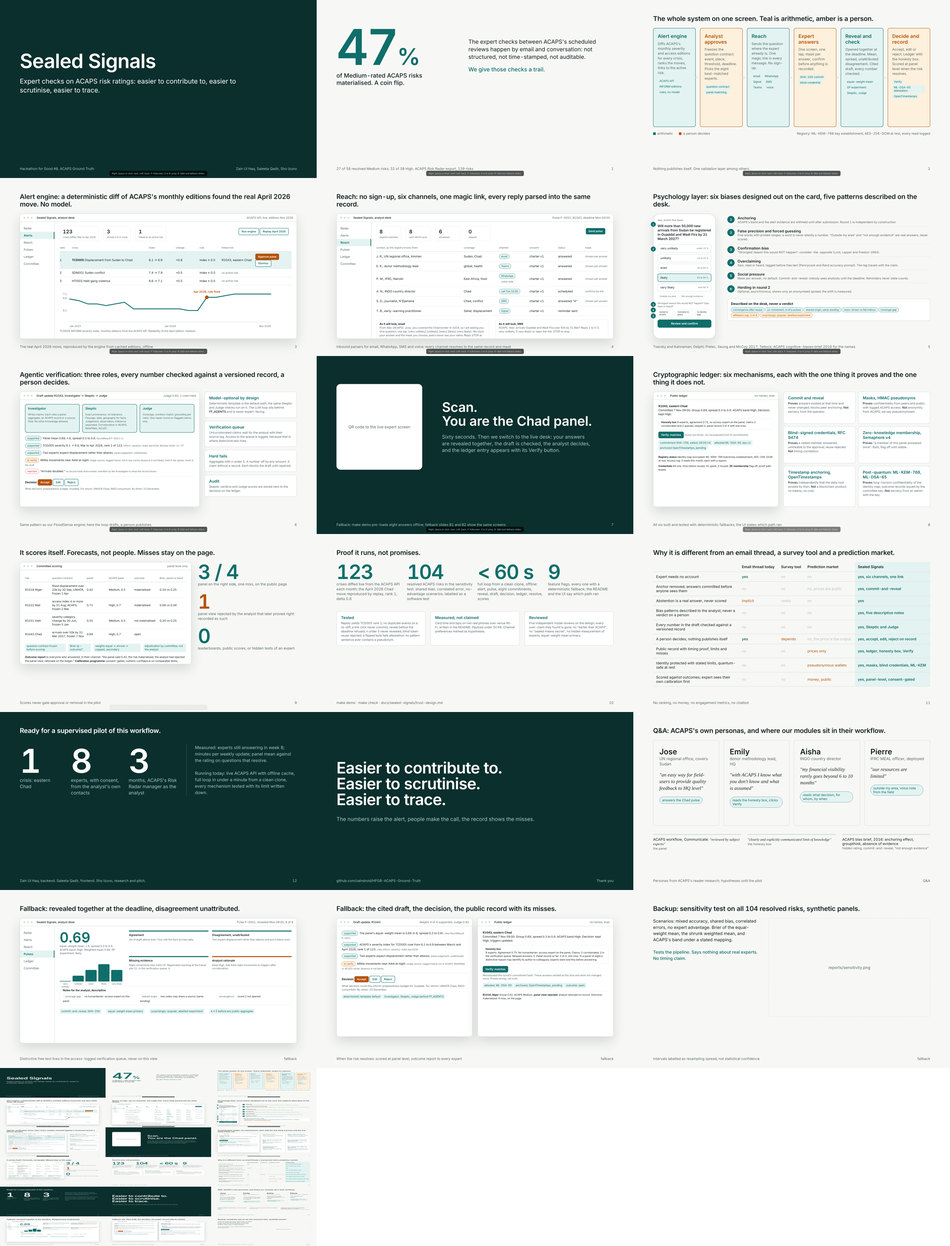
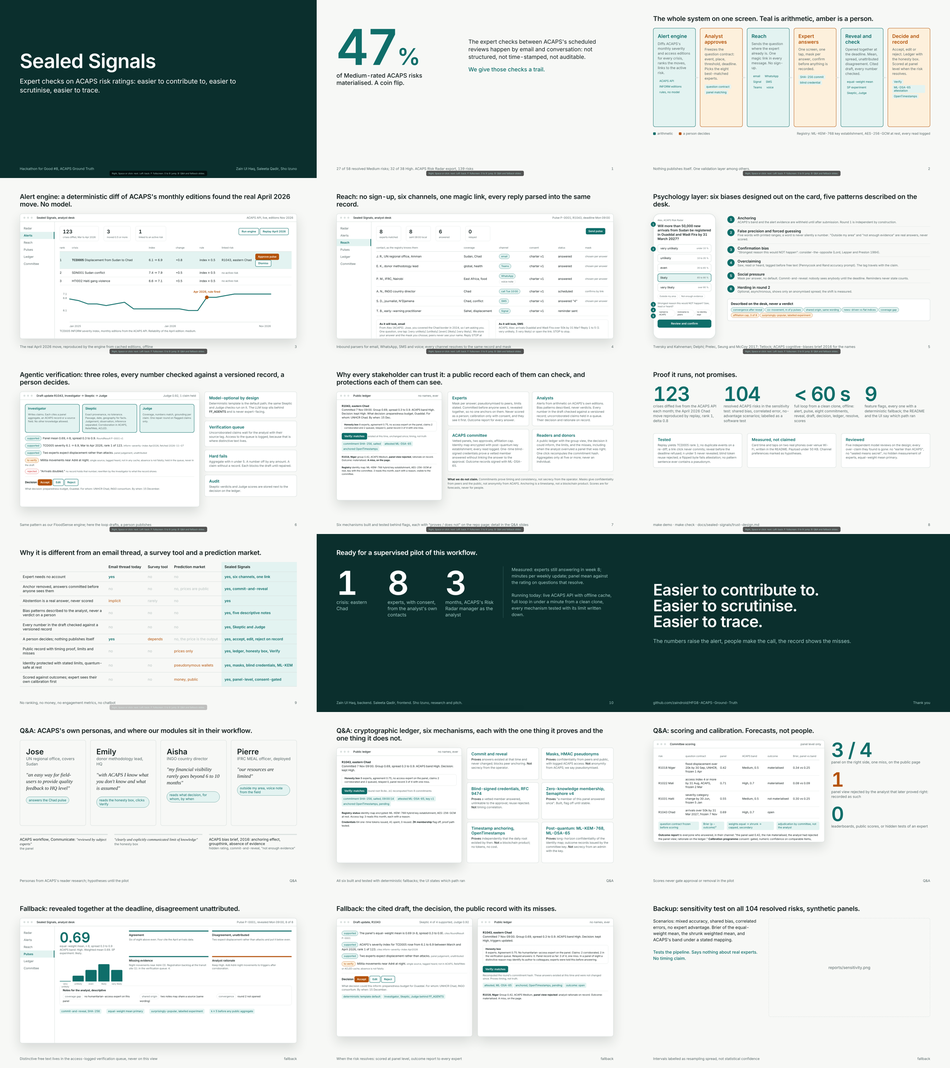
Pitch deck v7: demo slide removed (demo runs from the product), ledger, cryptography and scoring merged into one stakeholder trust slide; detail slides kept for Q&A

diff --git a/pitch/sealed-signals-slides.html b/pitch/sealed-signals-slides.html
@@ -236,16 +236,92 @@ h1{font-size:120px;font-weight:600;line-height:1;letter-spacing:-2px}
  </div>
  <div class="foot"><span>Same pattern as our FloodSense engine; here the loop drafts, a person publishes</span><span>6</span></div>
 </section>
-<section class="slide dark" id="s7">
- <div style="display:flex;align-items:center;gap:120px;margin-top:80px">
-  <div data-s="0" style="width:520px;height:520px;background:#fff;border-radius:24px;display:flex;align-items:center;justify-content:center;text-align:center;padding:50px;color:var(--muted);font-size:24px">QR code to the live expert screen</div>
-  <div><div class="line" data-s="0" style="font-size:80px;color:#fff;line-height:1.05">Scan.<br>You are the Chad panel.</div><p class="sub" data-s="1" style="font-size:30px;max-width:900px">Sixty seconds. Then we switch to the live desk: your answers are revealed together, the draft is checked, the analyst decides, and the ledger entry appears with its Verify button.</p></div>
+<section class="slide" id="s7">
+ <div class="line" data-s="0">Why every stakeholder can trust it: a public record each of them can check, and protections each of them can see.</div>
+ <div style="display:flex;gap:34px;align-items:flex-start">
+  <div class="win" data-s="1" style="width:640px;height:660px;flex:none">
+   <div class="bar"><i></i><i></i><i></i><b>Public ledger</b><span style="margin-left:auto">no names, ever</span></div>
+   <div class="main" style="font-size:16px;line-height:1.45">
+    <b>R1043, eastern Chad</b><br>Committed 7 Nov 09:00. Group 0.69, spread 0.3 to 0.9. ACAPS band High. Decision: kept High. What decision: preparedness budget, Ouaddaï. For whom: UNHCR Chad. By when: 15 Dec.
+    <div style="border:1.5px solid var(--line);border-radius:10px;padding:10px 14px;margin:10px 0;font-size:14px;line-height:1.45"><b>Honesty box</b> 8 experts, agreement 0.75, no access expert on the panel, claims 2 corroborated and 2 queued, relayed 0, panel record 3 of 4 with one miss.</div>
+    <span class="btn">Verify: matches</span> <span class="sub" style="font-size:14px">existed at this time, unchanged since; timing, not truth</span>
+    <div style="margin-top:10px;font-size:13px"><span class="tech">commitment SHA-256, salted</span> <span class="tech">attested ML-DSA-65</span> <span class="tech">anchored OpenTimestamps</span></div>
+    <div style="margin-top:12px;border-top:1.5px solid var(--line);padding-top:10px;font-size:14px"><b>R1018, Niger</b> group 0.42, ACAPS Medium, <b>panel view rejected</b>, rationale on record. Outcome: materialised. <b>A miss, on the page.</b></div>
+    <div style="margin-top:12px;border-top:1.5px solid var(--line);padding-top:10px;font-size:14px"><b>Registry</b> identity map: ML-KEM-768 hybrid key establishment, AES-256-GCM at rest, key with the committee. 3 reads this month, each with a reason, visible to the committee.</div>
+   </div>
+  </div>
+  <div style="flex:1;display:grid;grid-template-columns:1fr 1fr;gap:18px">
+   <div class="mech" data-s="2"><h3>Experts</h3><p>Mask per answer; pseudonymised to peers, limits stated. Committed before anyone sees it, revealed together, so no one anchors on them. Never scored as a person; calibration only with consent, and they see it first. Outcome report for every answer.</p></div>
+   <div class="mech" data-s="2"><h3>Analysts</h3><p>Alerts from arithmetic on ACAPS's own editions. Bias patterns described, never verdicts. Every number in the draft checked against a versioned record; uncorroborated claims held in a queue. Their decision and rationale on record.</p></div>
+   <div class="mech" data-s="3"><h3>ACAPS committee</h3><p>Vetted panels, two approvals, affiliation cap. Identity map encrypted with post-quantum key establishment; every read logged. One-time blind-signed credentials prove a vetted member answered without linking the answer to the approval. Outcome records signed with ML-DSA-65.</p></div>
+   <div class="mech" data-s="3"><h3>Readers and donors</h3><p>A public ledger with the group view, the decision it could inform, the limits, and the misses, including when the analyst overruled a panel that was right. One click recomputes the commitment hash. Aggregates only at five or more; never an individual.</p></div>
+   <div data-s="4" style="grid-column:1 / -1;border-top:2px solid var(--line);padding-top:14px;font-size:17px;color:var(--muted);line-height:1.5"><b style="color:var(--ink)">What we do not claim.</b> Commitments prove timing and consistency, not secrecy from the operator. Masks give confidentiality from peers and the public, not anonymity from ACAPS. Anchoring is a timestamp, not a blockchain product. Scores are for forecasts, never for people.</div>
+  </div>
  </div>
- <div class="foot"><span>Fallback: make demo pre-loads eight answers offline; fallback slides B1 and B2 show the same screens</span><span>7</span></div>
+ <div class="foot"><span>Six mechanisms built and tested behind flags, each with "proves / does not" on the repo page; detail in the Q&A slides</span><span>7</span></div>
 </section>
-<section class="slide dark" id="s7v" style="padding:0"><video id="demovid" src="sealed-signals-demo.mp4" muted playsinline preload="auto" style="position:absolute;left:0;top:0;width:1920px;height:1080px;background:#fff"></video></section>
 <section class="slide" id="s8">
- <div class="line" data-s="0">Cryptographic ledger: six mechanisms, each with the one thing it proves and the one thing it does not.</div>
+ <div class="line" data-s="0">Proof it runs, not promises.</div>
+ <div style="display:grid;grid-template-columns:repeat(4,1fr);gap:30px;margin-top:10px">
+  <div data-s="1"><div class="num">123</div><p class="sub" style="font-size:22px">crises diffed live from the ACAPS API each month; the April 2026 Chad move reproduced by replay, rank 1, delta 0.8</p></div>
+  <div data-s="1"><div class="num">104</div><p class="sub" style="font-size:22px">resolved ACAPS risks in the sensitivity test: shared bias, correlated error, no-advantage scenarios; labelled as a software test</p></div>
+  <div data-s="2"><div class="num">&lt; 60 s</div><p class="sub" style="font-size:22px">full loop from a clean clone, offline: alert, pulse, eight commitments, reveal, draft, decision, ledger, resolve, scores</p></div>
+  <div data-s="2"><div class="num">9</div><p class="sub" style="font-size:22px">feature flags, every one with a deterministic fallback; the README and the UI say which path ran</p></div>
+ </div>
+ <div style="display:grid;grid-template-columns:1fr 1fr 1fr;gap:30px;margin-top:60px" data-s="3">
+  <div class="mech"><h3>Tested</h3><p>Replay yields TCD005 rank 1; no duplicate events on a re-diff; a link click never commits; reveal before the deadline refused; n under 5 never revealed; blind token reuse rejected; a flipped byte fails attestation; no pattern sentence ever contains a pseudonym.</p></div>
+  <div class="mech"><h3>Measured, not claimed</h3><p>Card time and taps on two real phones over venue Wi-Fi, written in the README. Payload under 50 KB. Channel preferences marked as hypotheses.</p></div>
+  <div class="mech"><h3>Reviewed</h3><p>Five independent model reviews on the design; every over-claim they found is gone: no "earlier than ACAPS", no "sealed means secret", no hidden measurement of experts, equal-weight mean primary.</p></div>
+ </div>
+ <div class="foot"><span>make demo · make check · docs/sealed-signals/trust-design.md</span><span>8</span></div>
+</section>
+<section class="slide" id="s9">
+ <div class="line" data-s="0">Why it is different from an email thread, a survey tool and a prediction market.</div>
+ <table class="cmp" data-s="1">
+  <tr><th style="width:520px"></th><th>Email thread today</th><th>Survey tool</th><th>Prediction market</th><th class="us">Sealed Signals</th></tr>
+  <tr data-s="1"><td>Expert needs no account</td><td class="y">yes</td><td class="n">no</td><td class="n">no</td><td class="us y">yes, six channels, one link</td></tr>
+  <tr data-s="2"><td>Anchor removed, answers committed before anyone sees them</td><td class="n">no</td><td class="n">no</td><td class="n">no, prices are public</td><td class="us y">yes, commit-and-reveal</td></tr>
+  <tr data-s="2"><td>Abstention is a real answer, never scored</td><td class="p">implicit</td><td class="n">rarely</td><td class="n">no</td><td class="us y">yes</td></tr>
+  <tr data-s="3"><td>Bias patterns described to the analyst, never a verdict on a person</td><td class="n">no</td><td class="n">no</td><td class="n">no</td><td class="us y">yes, five descriptive notes</td></tr>
+  <tr data-s="3"><td>Every number in the draft checked against a versioned record</td><td class="n">no</td><td class="n">no</td><td class="n">no</td><td class="us y">yes, Skeptic and Judge</td></tr>
+  <tr data-s="4"><td>A person decides; nothing publishes itself</td><td class="y">yes</td><td class="p">depends</td><td class="n">no, the price is the output</td><td class="us y">yes, accept, edit, reject on record</td></tr>
+  <tr data-s="4"><td>Public record with timing proof, limits and misses</td><td class="n">no</td><td class="n">no</td><td class="p">prices only</td><td class="us y">yes, ledger, honesty box, Verify</td></tr>
+  <tr data-s="5"><td>Identity protected with stated limits, quantum-safe at rest</td><td class="n">no</td><td class="n">no</td><td class="p">pseudonymous wallets</td><td class="us y">yes, masks, blind credentials, ML-KEM</td></tr>
+  <tr data-s="5"><td>Scored against outcomes; expert sees their own calibration first</td><td class="n">no</td><td class="n">no</td><td class="p">money, public</td><td class="us y">yes, panel-level, consent-gated</td></tr>
+ </table>
+ <div class="foot"><span>No ranking, no money, no engagement metrics, no chatbot</span><span>9</span></div>
+</section>
+<section class="slide dark" id="s10">
+ <div class="line" data-s="0" style="color:#fff">Ready for a supervised pilot of this workflow.</div>
+ <div style="display:flex;gap:50px;margin-top:60px">
+  <div data-s="1" style="width:260px"><div style="font-size:200px;font-weight:600;line-height:1;letter-spacing:-6px">1</div><p class="sub" style="font-size:28px">crisis: eastern Chad</p></div>
+  <div data-s="2" style="width:300px"><div style="font-size:200px;font-weight:600;line-height:1;letter-spacing:-6px">8</div><p class="sub" style="font-size:28px">experts, with consent, from the analyst's own contacts</p></div>
+  <div data-s="3" style="width:300px"><div style="font-size:200px;font-weight:600;line-height:1;letter-spacing:-6px">3</div><p class="sub" style="font-size:28px">months, ACAPS's Risk Radar manager as the analyst</p></div>
+  <div data-s="4" style="flex:1;min-width:600px;border-left:2px solid #2d5c58;padding-left:50px;font-size:26px;line-height:1.5;color:#9fc8c3">Measured: experts still answering in week 8; minutes per weekly update; panel mean against the rating on questions that resolve.<br><br>Running today: live ACAPS API with offline cache, full loop in under a minute from a clean clone, every mechanism tested with its limit written down.</div>
+ </div>
+ <div class="foot"><span>Zain Ul Haq, backend. Saleeta Qadir, frontend. Sho Izuno, research and pitch.</span><span>10</span></div>
+</section>
+<section class="slide dark" id="s11">
+ <div style="margin-top:200px"><h1 data-s="0" style="font-size:96px">Easier to contribute to.<br>Easier to scrutinise.<br>Easier to trace.</h1><p class="sub" data-s="1" style="font-size:32px;margin-top:50px">The numbers raise the alert, people make the call, the record shows the misses.</p></div>
+ <div class="foot"><span>github.com/zaindroid/HFG8-ACAPS-Ground-Truth</span><span>Thank you</span></div>
+</section>
+<section class="slide" id="b1">
+ <div class="line" data-s="0">Q&A: ACAPS's own personas, and where our modules sit in their workflow.</div>
+ <div style="display:grid;grid-template-columns:repeat(4,1fr);gap:26px;margin-top:10px">
+  <div data-s="1" style="border:2px solid var(--line);border-radius:12px;padding:40px 36px;min-height:520px"><div style="font-size:46px;font-weight:600">Jose</div><div class="sub" style="font-size:24px;margin-bottom:28px">UN regional office, covers Sudan</div><p style="font-family:var(--serif);font-style:italic;font-size:30px;line-height:1.35;margin-bottom:30px">"an easy way for field-users to provide quality feedback to HQ level"</p><span class="chip t" style="font-size:20px;padding:8px 16px">answers the Chad pulse</span></div>
+  <div data-s="2" style="border:2px solid var(--line);border-radius:12px;padding:40px 36px;min-height:520px"><div style="font-size:46px;font-weight:600">Emily</div><div class="sub" style="font-size:24px;margin-bottom:28px">donor methodology lead, HQ</div><p style="font-family:var(--serif);font-style:italic;font-size:30px;line-height:1.35;margin-bottom:30px">"with ACAPS I know what you don't know and what is assumed"</p><span class="chip t" style="font-size:20px;padding:8px 16px">reads the honesty box, clicks Verify</span></div>
+  <div data-s="3" style="border:2px solid var(--line);border-radius:12px;padding:40px 36px;min-height:520px"><div style="font-size:46px;font-weight:600">Aisha</div><div class="sub" style="font-size:24px;margin-bottom:28px">INGO country director</div><p style="font-family:var(--serif);font-style:italic;font-size:30px;line-height:1.35;margin-bottom:30px">"my financial visibility rarely goes beyond 6 to 10 months"</p><span class="chip t" style="font-size:20px;padding:8px 16px">reads what decision, for whom, by when</span></div>
+  <div data-s="4" style="border:2px solid var(--line);border-radius:12px;padding:40px 36px;min-height:520px"><div style="font-size:46px;font-weight:600">Pierre</div><div class="sub" style="font-size:24px;margin-bottom:28px">IFRC MEAL officer, deployed</div><p style="font-family:var(--serif);font-style:italic;font-size:30px;line-height:1.35;margin-bottom:30px">"our resources are limited"</p><span class="chip t" style="font-size:20px;padding:8px 16px">outside my area, voice note from the field</span></div>
+ </div>
+ <div style="margin-top:50px;display:flex;gap:40px" data-s="4">
+  <div style="flex:1;border-top:6px solid var(--line);padding-top:14px;font-size:22px">ACAPS workflow, Communicate: <span style="font-family:var(--serif);font-style:italic">"reviewed by subject experts"</span><br><span class="sub" style="font-size:19px">the panel</span></div>
+  <div style="flex:1;border-top:6px solid var(--line);padding-top:14px;font-size:22px"><span style="font-family:var(--serif);font-style:italic">"clearly and explicitly communicated limit of knowledge"</span><br><span class="sub" style="font-size:19px">the honesty box</span></div>
+  <div style="flex:1;border-top:6px solid var(--line);padding-top:14px;font-size:22px">ACAPS bias brief, 2016: anchoring effect, groupthink, absence of evidence<br><span class="sub" style="font-size:19px">hidden rating, commit-and-reveal, "not enough evidence"</span></div>
+ </div>
+ <div class="foot"><span>Personas from ACAPS's reader research; hypotheses until the pilot</span><span>Q&amp;A</span></div>
+</section>
+<section class="slide" id="b2">
+ <div class="line" data-s="0">Q&A: cryptographic ledger, six mechanisms, each with the one thing it proves and the one thing it does not.</div>
  <div style="display:flex;gap:30px">
   <div class="win" data-s="1" style="width:760px;height:700px;flex:none">
    <div class="bar"><i></i><i></i><i></i><b>Public ledger</b><span style="margin-left:auto">no names, ever</span></div>
@@ -267,10 +343,10 @@ h1{font-size:120px;font-weight:600;line-height:1;letter-spacing:-2px}
    <div class="mech"><h3>Post-quantum: ML-KEM-768, ML-DSA-65</h3><p><b>Proves</b> long-horizon confidentiality of the identity map; outcome records issued by the committee key. <b>Not</b> secrecy from an admin with the key.</p></div>
   </div>
  </div>
- <div class="foot"><span>All six built and tested with deterministic fallbacks; the UI states which path ran</span><span>8</span></div>
+ <div class="foot"><span>All six built and tested with deterministic fallbacks; the UI states which path ran</span><span>Q&amp;A</span></div>
 </section>
-<section class="slide" id="s9">
- <div class="line" data-s="0">It scores itself. Forecasts, not people. Misses stay on the page.</div>
+<section class="slide" id="b3">
+ <div class="line" data-s="0">Q&A: scoring and calibration. Forecasts, not people.</div>
  <div style="display:flex;gap:40px;align-items:flex-start">
   <div style="width:1040px" data-s="1">
    <div class="win" style="height:620px">
@@ -292,69 +368,9 @@ h1{font-size:120px;font-weight:600;line-height:1;letter-spacing:-2px}
    <div class="num">0</div><p class="sub" style="font-size:22px">leaderboards, public scores, or hidden tests of an expert</p>
   </div>
  </div>
- <div class="foot"><span>Scores never gate approval or removal in the pilot</span><span>9</span></div>
+ <div class="foot"><span>Scores never gate approval or removal in the pilot</span><span>Q&amp;A</span></div>
 </section>
-<section class="slide" id="s10">
- <div class="line" data-s="0">Proof it runs, not promises.</div>
- <div style="display:grid;grid-template-columns:repeat(4,1fr);gap:30px;margin-top:10px">
-  <div data-s="1"><div class="num">123</div><p class="sub" style="font-size:22px">crises diffed live from the ACAPS API each month; the April 2026 Chad move reproduced by replay, rank 1, delta 0.8</p></div>
-  <div data-s="1"><div class="num">104</div><p class="sub" style="font-size:22px">resolved ACAPS risks in the sensitivity test: shared bias, correlated error, no-advantage scenarios; labelled as a software test</p></div>
-  <div data-s="2"><div class="num">&lt; 60 s</div><p class="sub" style="font-size:22px">full loop from a clean clone, offline: alert, pulse, eight commitments, reveal, draft, decision, ledger, resolve, scores</p></div>
-  <div data-s="2"><div class="num">9</div><p class="sub" style="font-size:22px">feature flags, every one with a deterministic fallback; the README and the UI say which path ran</p></div>
- </div>
- <div style="display:grid;grid-template-columns:1fr 1fr 1fr;gap:30px;margin-top:60px" data-s="3">
-  <div class="mech"><h3>Tested</h3><p>Replay yields TCD005 rank 1; no duplicate events on a re-diff; a link click never commits; reveal before the deadline refused; n under 5 never revealed; blind token reuse rejected; a flipped byte fails attestation; no pattern sentence ever contains a pseudonym.</p></div>
-  <div class="mech"><h3>Measured, not claimed</h3><p>Card time and taps on two real phones over venue Wi-Fi, written in the README. Payload under 50 KB. Channel preferences marked as hypotheses.</p></div>
-  <div class="mech"><h3>Reviewed</h3><p>Five independent model reviews on the design; every over-claim they found is gone: no "earlier than ACAPS", no "sealed means secret", no hidden measurement of experts, equal-weight mean primary.</p></div>
- </div>
- <div class="foot"><span>make demo · make check · docs/sealed-signals/trust-design.md</span><span>10</span></div>
-</section>
-<section class="slide" id="s11">
- <div class="line" data-s="0">Why it is different from an email thread, a survey tool and a prediction market.</div>
- <table class="cmp" data-s="1">
-  <tr><th style="width:520px"></th><th>Email thread today</th><th>Survey tool</th><th>Prediction market</th><th class="us">Sealed Signals</th></tr>
-  <tr data-s="1"><td>Expert needs no account</td><td class="y">yes</td><td class="n">no</td><td class="n">no</td><td class="us y">yes, six channels, one link</td></tr>
-  <tr data-s="2"><td>Anchor removed, answers committed before anyone sees them</td><td class="n">no</td><td class="n">no</td><td class="n">no, prices are public</td><td class="us y">yes, commit-and-reveal</td></tr>
-  <tr data-s="2"><td>Abstention is a real answer, never scored</td><td class="p">implicit</td><td class="n">rarely</td><td class="n">no</td><td class="us y">yes</td></tr>
-  <tr data-s="3"><td>Bias patterns described to the analyst, never a verdict on a person</td><td class="n">no</td><td class="n">no</td><td class="n">no</td><td class="us y">yes, five descriptive notes</td></tr>
-  <tr data-s="3"><td>Every number in the draft checked against a versioned record</td><td class="n">no</td><td class="n">no</td><td class="n">no</td><td class="us y">yes, Skeptic and Judge</td></tr>
-  <tr data-s="4"><td>A person decides; nothing publishes itself</td><td class="y">yes</td><td class="p">depends</td><td class="n">no, the price is the output</td><td class="us y">yes, accept, edit, reject on record</td></tr>
-  <tr data-s="4"><td>Public record with timing proof, limits and misses</td><td class="n">no</td><td class="n">no</td><td class="p">prices only</td><td class="us y">yes, ledger, honesty box, Verify</td></tr>
-  <tr data-s="5"><td>Identity protected with stated limits, quantum-safe at rest</td><td class="n">no</td><td class="n">no</td><td class="p">pseudonymous wallets</td><td class="us y">yes, masks, blind credentials, ML-KEM</td></tr>
-  <tr data-s="5"><td>Scored against outcomes; expert sees their own calibration first</td><td class="n">no</td><td class="n">no</td><td class="p">money, public</td><td class="us y">yes, panel-level, consent-gated</td></tr>
- </table>
- <div class="foot"><span>No ranking, no money, no engagement metrics, no chatbot</span><span>11</span></div>
-</section>
-<section class="slide dark" id="s12">
- <div class="line" data-s="0" style="color:#fff">Ready for a supervised pilot of this workflow.</div>
- <div style="display:flex;gap:50px;margin-top:60px">
-  <div data-s="1" style="width:260px"><div style="font-size:200px;font-weight:600;line-height:1;letter-spacing:-6px">1</div><p class="sub" style="font-size:28px">crisis: eastern Chad</p></div>
-  <div data-s="2" style="width:300px"><div style="font-size:200px;font-weight:600;line-height:1;letter-spacing:-6px">8</div><p class="sub" style="font-size:28px">experts, with consent, from the analyst's own contacts</p></div>
-  <div data-s="3" style="width:300px"><div style="font-size:200px;font-weight:600;line-height:1;letter-spacing:-6px">3</div><p class="sub" style="font-size:28px">months, ACAPS's Risk Radar manager as the analyst</p></div>
-  <div data-s="4" style="flex:1;min-width:600px;border-left:2px solid #2d5c58;padding-left:50px;font-size:26px;line-height:1.5;color:#9fc8c3">Measured: experts still answering in week 8; minutes per weekly update; panel mean against the rating on questions that resolve.<br><br>Running today: live ACAPS API with offline cache, full loop in under a minute from a clean clone, every mechanism tested with its limit written down.</div>
- </div>
- <div class="foot"><span>Zain Ul Haq, backend. Saleeta Qadir, frontend. Sho Izuno, research and pitch.</span><span>12</span></div>
-</section>
-<section class="slide dark" id="s13">
- <div style="margin-top:200px"><h1 data-s="0" style="font-size:96px">Easier to contribute to.<br>Easier to scrutinise.<br>Easier to trace.</h1><p class="sub" data-s="1" style="font-size:32px;margin-top:50px">The numbers raise the alert, people make the call, the record shows the misses.</p></div>
- <div class="foot"><span>github.com/zaindroid/HFG8-ACAPS-Ground-Truth</span><span>Thank you</span></div>
-</section>
-<section class="slide" id="b1">
- <div class="line" data-s="0">Q&A: ACAPS's own personas, and where our modules sit in their workflow.</div>
- <div style="display:grid;grid-template-columns:repeat(4,1fr);gap:26px;margin-top:10px">
-  <div data-s="1" style="border:2px solid var(--line);border-radius:12px;padding:40px 36px;min-height:520px"><div style="font-size:46px;font-weight:600">Jose</div><div class="sub" style="font-size:24px;margin-bottom:28px">UN regional office, covers Sudan</div><p style="font-family:var(--serif);font-style:italic;font-size:30px;line-height:1.35;margin-bottom:30px">"an easy way for field-users to provide quality feedback to HQ level"</p><span class="chip t" style="font-size:20px;padding:8px 16px">answers the Chad pulse</span></div>
-  <div data-s="2" style="border:2px solid var(--line);border-radius:12px;padding:40px 36px;min-height:520px"><div style="font-size:46px;font-weight:600">Emily</div><div class="sub" style="font-size:24px;margin-bottom:28px">donor methodology lead, HQ</div><p style="font-family:var(--serif);font-style:italic;font-size:30px;line-height:1.35;margin-bottom:30px">"with ACAPS I know what you don't know and what is assumed"</p><span class="chip t" style="font-size:20px;padding:8px 16px">reads the honesty box, clicks Verify</span></div>
-  <div data-s="3" style="border:2px solid var(--line);border-radius:12px;padding:40px 36px;min-height:520px"><div style="font-size:46px;font-weight:600">Aisha</div><div class="sub" style="font-size:24px;margin-bottom:28px">INGO country director</div><p style="font-family:var(--serif);font-style:italic;font-size:30px;line-height:1.35;margin-bottom:30px">"my financial visibility rarely goes beyond 6 to 10 months"</p><span class="chip t" style="font-size:20px;padding:8px 16px">reads what decision, for whom, by when</span></div>
-  <div data-s="4" style="border:2px solid var(--line);border-radius:12px;padding:40px 36px;min-height:520px"><div style="font-size:46px;font-weight:600">Pierre</div><div class="sub" style="font-size:24px;margin-bottom:28px">IFRC MEAL officer, deployed</div><p style="font-family:var(--serif);font-style:italic;font-size:30px;line-height:1.35;margin-bottom:30px">"our resources are limited"</p><span class="chip t" style="font-size:20px;padding:8px 16px">outside my area, voice note from the field</span></div>
- </div>
- <div style="margin-top:50px;display:flex;gap:40px" data-s="4">
-  <div style="flex:1;border-top:6px solid var(--line);padding-top:14px;font-size:22px">ACAPS workflow, Communicate: <span style="font-family:var(--serif);font-style:italic">"reviewed by subject experts"</span><br><span class="sub" style="font-size:19px">the panel</span></div>
-  <div style="flex:1;border-top:6px solid var(--line);padding-top:14px;font-size:22px"><span style="font-family:var(--serif);font-style:italic">"clearly and explicitly communicated limit of knowledge"</span><br><span class="sub" style="font-size:19px">the honesty box</span></div>
-  <div style="flex:1;border-top:6px solid var(--line);padding-top:14px;font-size:22px">ACAPS bias brief, 2016: anchoring effect, groupthink, absence of evidence<br><span class="sub" style="font-size:19px">hidden rating, commit-and-reveal, "not enough evidence"</span></div>
- </div>
- <div class="foot"><span>Personas from ACAPS's reader research; hypotheses until the pilot</span><span>Q&amp;A</span></div>
-</section>
-<section class="slide" id="b2">
+<section class="slide" id="b4">
  <div class="line" data-s="0">Fallback: revealed together at the deadline, disagreement unattributed.</div>
  <div class="win" data-s="1" style="height:760px">
   <div class="bar"><i></i><i></i><i></i><b>Sealed Signals, analyst desk</b><span style="margin-left:auto">Pulse P-0001, revealed Mon 09:00, 8 of 8</span></div>
@@ -379,7 +395,7 @@ h1{font-size:120px;font-weight:600;line-height:1;letter-spacing:-2px}
  </div>
  <div class="foot"><span>Distinctive free text lives in the access-logged verification queue, never on this view</span><span>fallback</span></div>
 </section>
-<section class="slide" id="b3">
+<section class="slide" id="b5">
  <div class="line" data-s="0">Fallback: the cited draft, the decision, the public record with its misses.</div>
  <div style="display:flex;gap:30px">
   <div class="win" data-s="1" style="height:720px;flex:1">
@@ -410,7 +426,7 @@ h1{font-size:120px;font-weight:600;line-height:1;letter-spacing:-2px}
  </div>
  <div class="foot"><span>When the risk resolves: scored at panel level, outcome report to every expert</span><span>fallback</span></div>
 </section>
-<section class="slide" id="b4">
+<section class="slide" id="b6">
  <div class="line" data-s="0">Backup: sensitivity test on all 104 resolved risks, synthetic panels.</div>
  <div style="display:flex;gap:60px;align-items:flex-start">
   <div style="width:640px;font-size:26px;line-height:1.45" data-s="1">Scenarios: mixed accuracy, shared bias, correlated errors, no expert advantage. Brier of the equal-weight mean, the shrunk weighted mean, and ACAPS's band under a stated mapping.<br><br><span style="color:var(--teal);font-weight:500">Tests the pipeline. Says nothing about real experts. No timing claim.</span></div>
@@ -437,7 +453,7 @@ h1{font-size:120px;font-weight:600;line-height:1;letter-spacing:-2px}
   else if(e.key==='ArrowLeft'||e.key==='PageUp'){prev()}
   else if(e.key==='f'||e.key==='F'){document.fullscreenElement?document.exitFullscreen():document.documentElement.requestFullscreen()}
   else if(/^[0-9]$/.test(e.key)){var el=document.getElementById('s'+e.key);if(el)go(S.indexOf(el),0)}
-  else if(e.key==='b'||e.key==='B'){go(S.indexOf(document.getElementById('b1')),0)}else if(e.key==='Escape'){go(S.indexOf(document.getElementById('s7')),0)}});
+  else if(e.key==='b'||e.key==='B'){go(S.indexOf(document.getElementById('b1')),0)}});
  addEventListener('click',next);
  setTimeout(function(){document.getElementById('hud').style.opacity=0},6000);
  go(0,0);

diff --git a/docs/sealed-signals/MASTER_PROMPT.md b/docs/sealed-signals/MASTER_PROMPT.md
@@ -709,17 +709,18 @@ Professional, minimal, modern. The jury should think "this already exists in pro
 
 ## 9a. The three minutes (Lane C owns demo-script.md; deck in pitch/sealed-signals-slides.html; these beats are fixed)
 
-The deck sells what we built, with proofs. Order: 1 the gap (47 %) · 2 the whole system on one screen, tech chips on each
-node · 3 alert engine: the Alerts page, the real April 2026 move reproduced by replay · 4 Reach: the pulse leaving by six
-channels, consent and STOP visible · 5 psychology layer: the card annotated with the six biases designed out, and the five
-descriptive desk notes · 6 agentic verification: Investigator, Skeptic, Judge with claim-level verdicts, a held claim and a
-rejected claim, the analyst decision · 7 scan, the jury is the Chad panel (60 s), then the live desk: reveal, draft,
-decision, ledger, one click on Verify · 8 cryptographic ledger: the ledger screen with six mechanisms, each "proves /
-does not" · 9 scoring and calibration: committee scoring at panel level, the outcome report, the miss on the page ·
-10 proof it runs: 123, 104, under 60 s, 9 flags, tests, measured, reviewed · 11 why it is different: comparison with an
-email thread, a survey tool and a prediction market · 12 pilot and team · close on the spine line. Q&A and fallback
-slides (B): personas and the ACAPS workflow mapping, the reveal view, the draft and ledger, the sensitivity test.
-Nothing is said on stage about a path that is off.
+The deck sells what we built, with proofs; the live demo is run from the product, not from a slide. Order: 1 the gap
+(47 %) · 2 the whole system on one screen, tech chips on each node · 3 alert engine: the Alerts page, the real April 2026
+move reproduced by replay · 4 Reach: the pulse leaving by six channels, consent and STOP visible · 5 psychology layer:
+the card annotated with six biases designed out, five descriptive desk notes · 6 agentic verification: Investigator,
+Skeptic, Judge with claim-level verdicts and the analyst decision · 7 why every stakeholder can trust it: the ledger
+with Verify and the miss on the page, and what experts, analysts, the committee and readers each get, with "what we do
+not claim" · 8 proof it runs: 123, 104, under 60 s, 9 flags, tests, measured, reviewed · 9 why it is different:
+comparison with an email thread, a survey tool and a prediction market · 10 pilot and team · close on the spine line.
+Live demo: switch to the product after slide 6 or after slide 9 (presenter's call): the jury scans the QR shown on the
+desk's Reach page, answers on the card, and the reveal, draft, decision and ledger happen live. Q&A slides (B):
+personas and workflow mapping, cryptographic mechanisms in detail, scoring and calibration, the reveal view, the draft
+and ledger, the sensitivity test. Nothing is said on stage about a path that is off.
 
 ## 10. Lanes
 
